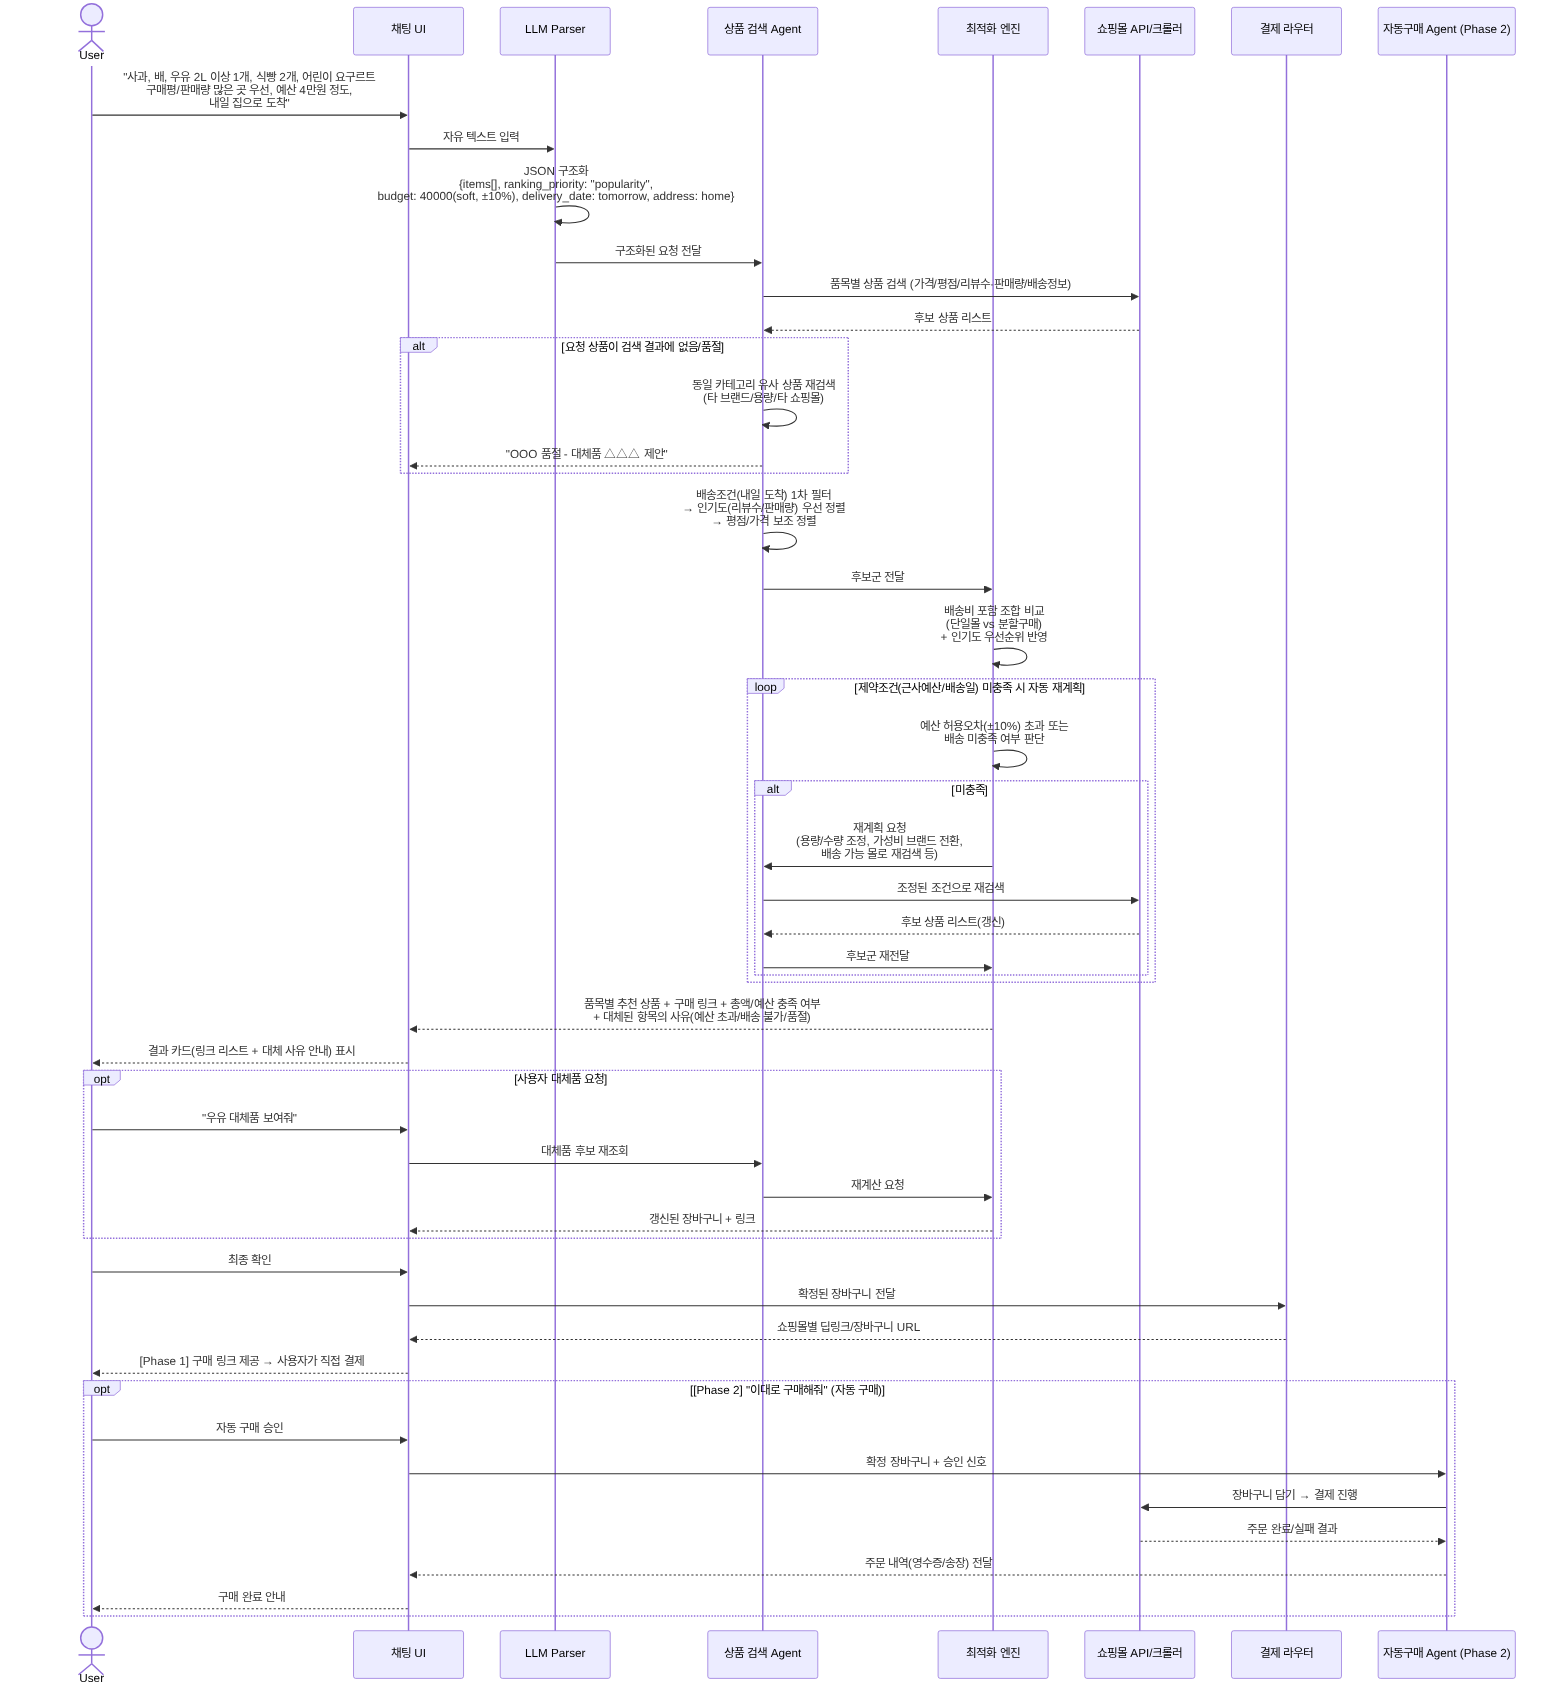
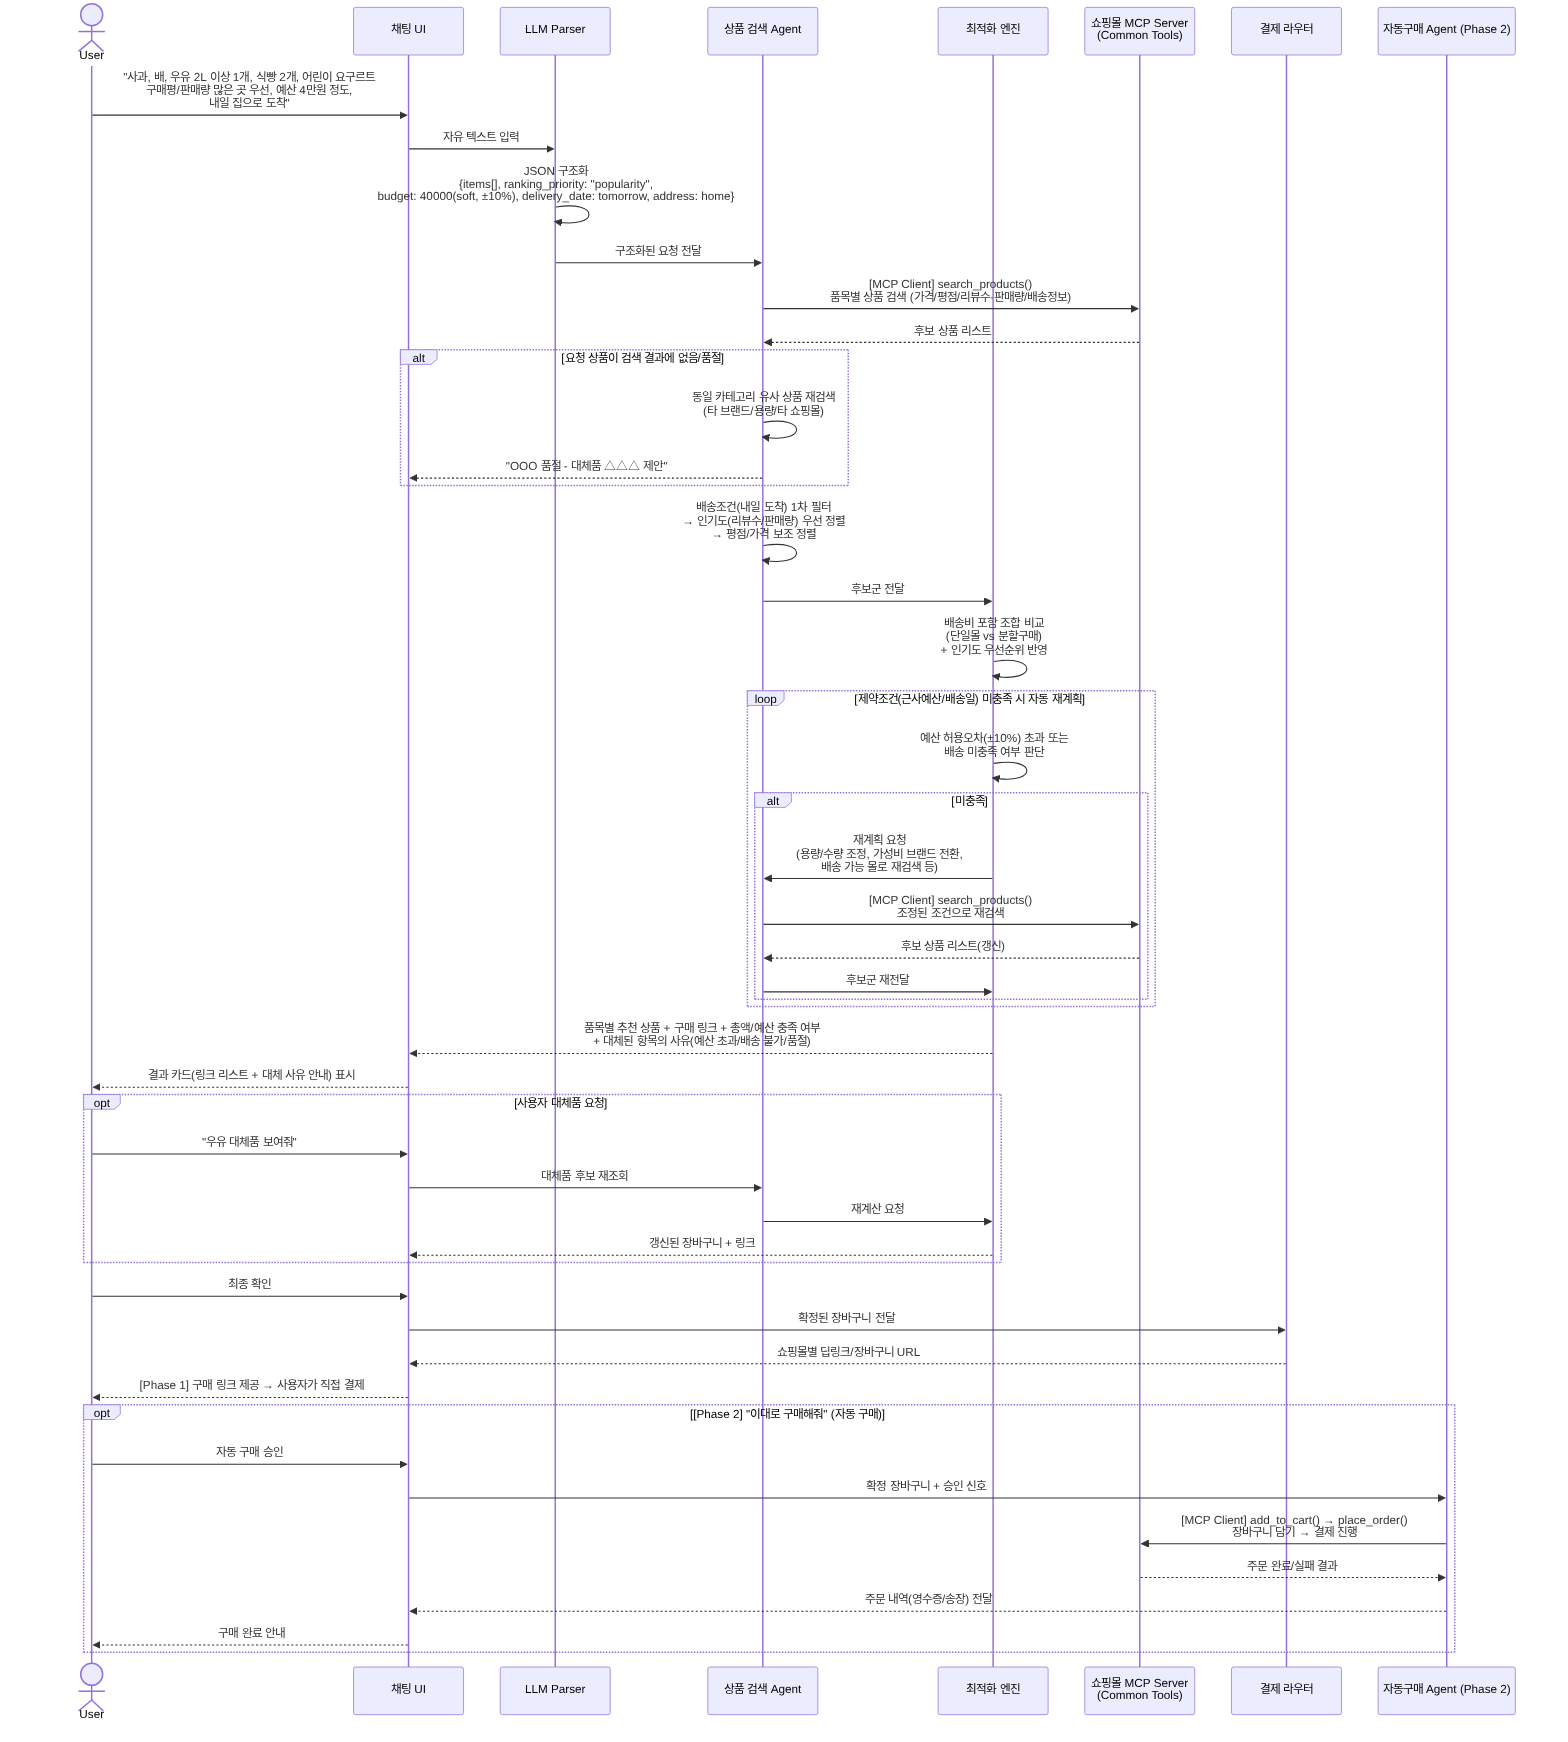
3.2 시퀀스 다이어그램에 MCP Client 호출 반영
쇼핑몰 참여자를 MCP Server로 표기하고, search_products/add_to_cart/place_order
호출을 MCP Client 관점으로 명시해 3.1 아키텍처 다이어그램과 일관성을 맞춤.

diff --git a/README.md b/README.md
@@ -213,7 +213,7 @@ sequenceDiagram
     participant Parser as LLM Parser
     participant Search as 상품 검색 Agent
     participant Optimizer as 최적화 엔진
-    participant Mall as 쇼핑몰 API/크롤러
+    participant Mall as 쇼핑몰 MCP Server<br/>(Common Tools)
     participant Router as 결제 라우터
     participant Purchase as 자동구매 Agent (Phase 2)
 
@@ -221,7 +221,7 @@ sequenceDiagram
     UI->>Parser: 자유 텍스트 입력
     Parser->>Parser: JSON 구조화<br/>{items[], ranking_priority: "popularity",<br/>budget: 40000(soft, ±10%), delivery_date: tomorrow, address: home}
     Parser->>Search: 구조화된 요청 전달
-    Search->>Mall: 품목별 상품 검색 (가격/평점/리뷰수·판매량/배송정보)
+    Search->>Mall: [MCP Client] search_products()<br/>품목별 상품 검색 (가격/평점/리뷰수·판매량/배송정보)
     Mall-->>Search: 후보 상품 리스트
 
     alt 요청 상품이 검색 결과에 없음/품절
@@ -237,7 +237,7 @@ sequenceDiagram
         Optimizer->>Optimizer: 예산 허용오차(±10%) 초과 또는<br/>배송 미충족 여부 판단
         alt 미충족
             Optimizer->>Search: 재계획 요청<br/>(용량/수량 조정, 가성비 브랜드 전환,<br/>배송 가능 몰로 재검색 등)
-            Search->>Mall: 조정된 조건으로 재검색
+            Search->>Mall: [MCP Client] search_products()<br/>조정된 조건으로 재검색
             Mall-->>Search: 후보 상품 리스트(갱신)
             Search->>Optimizer: 후보군 재전달
         end
@@ -261,7 +261,7 @@ sequenceDiagram
     opt [Phase 2] "이대로 구매해줘" (자동 구매)
         User->>UI: 자동 구매 승인
         UI->>Purchase: 확정 장바구니 + 승인 신호
-        Purchase->>Mall: 장바구니 담기 → 결제 진행
+        Purchase->>Mall: [MCP Client] add_to_cart() → place_order()<br/>장바구니 담기 → 결제 진행
         Mall-->>Purchase: 주문 완료/실패 결과
         Purchase-->>UI: 주문 내역(영수증/송장) 전달
         UI-->>User: 구매 완료 안내